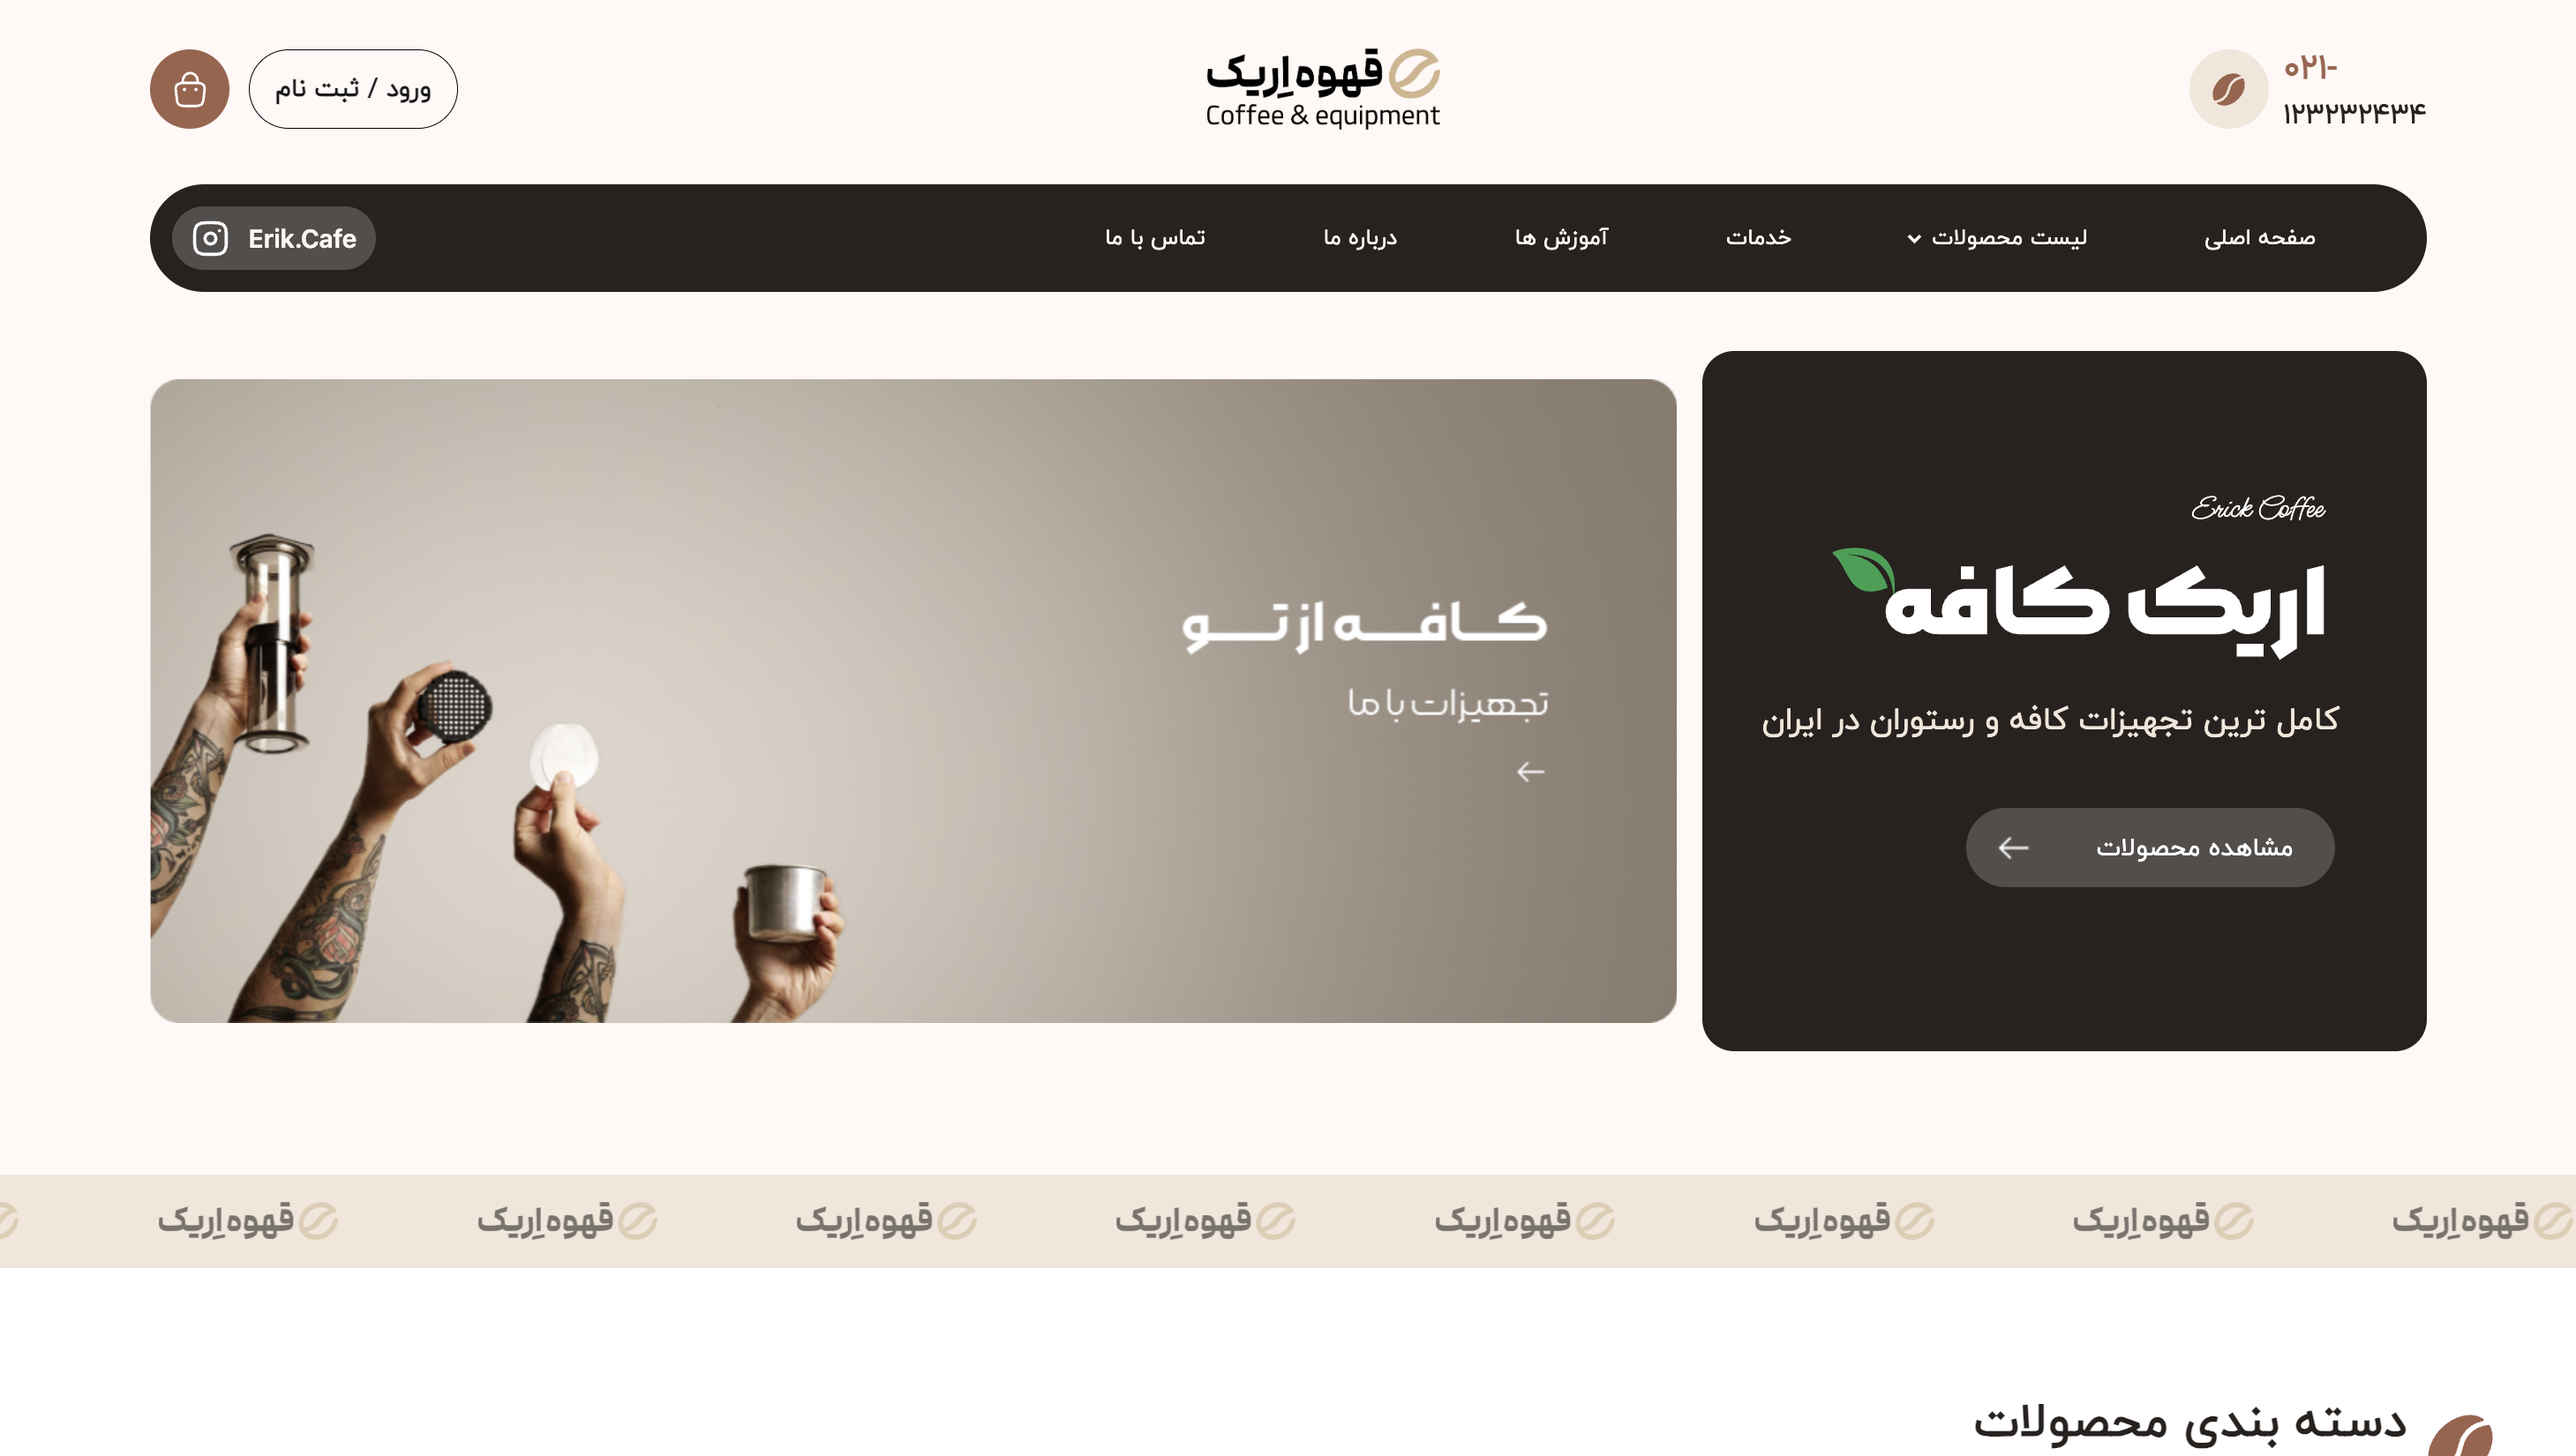
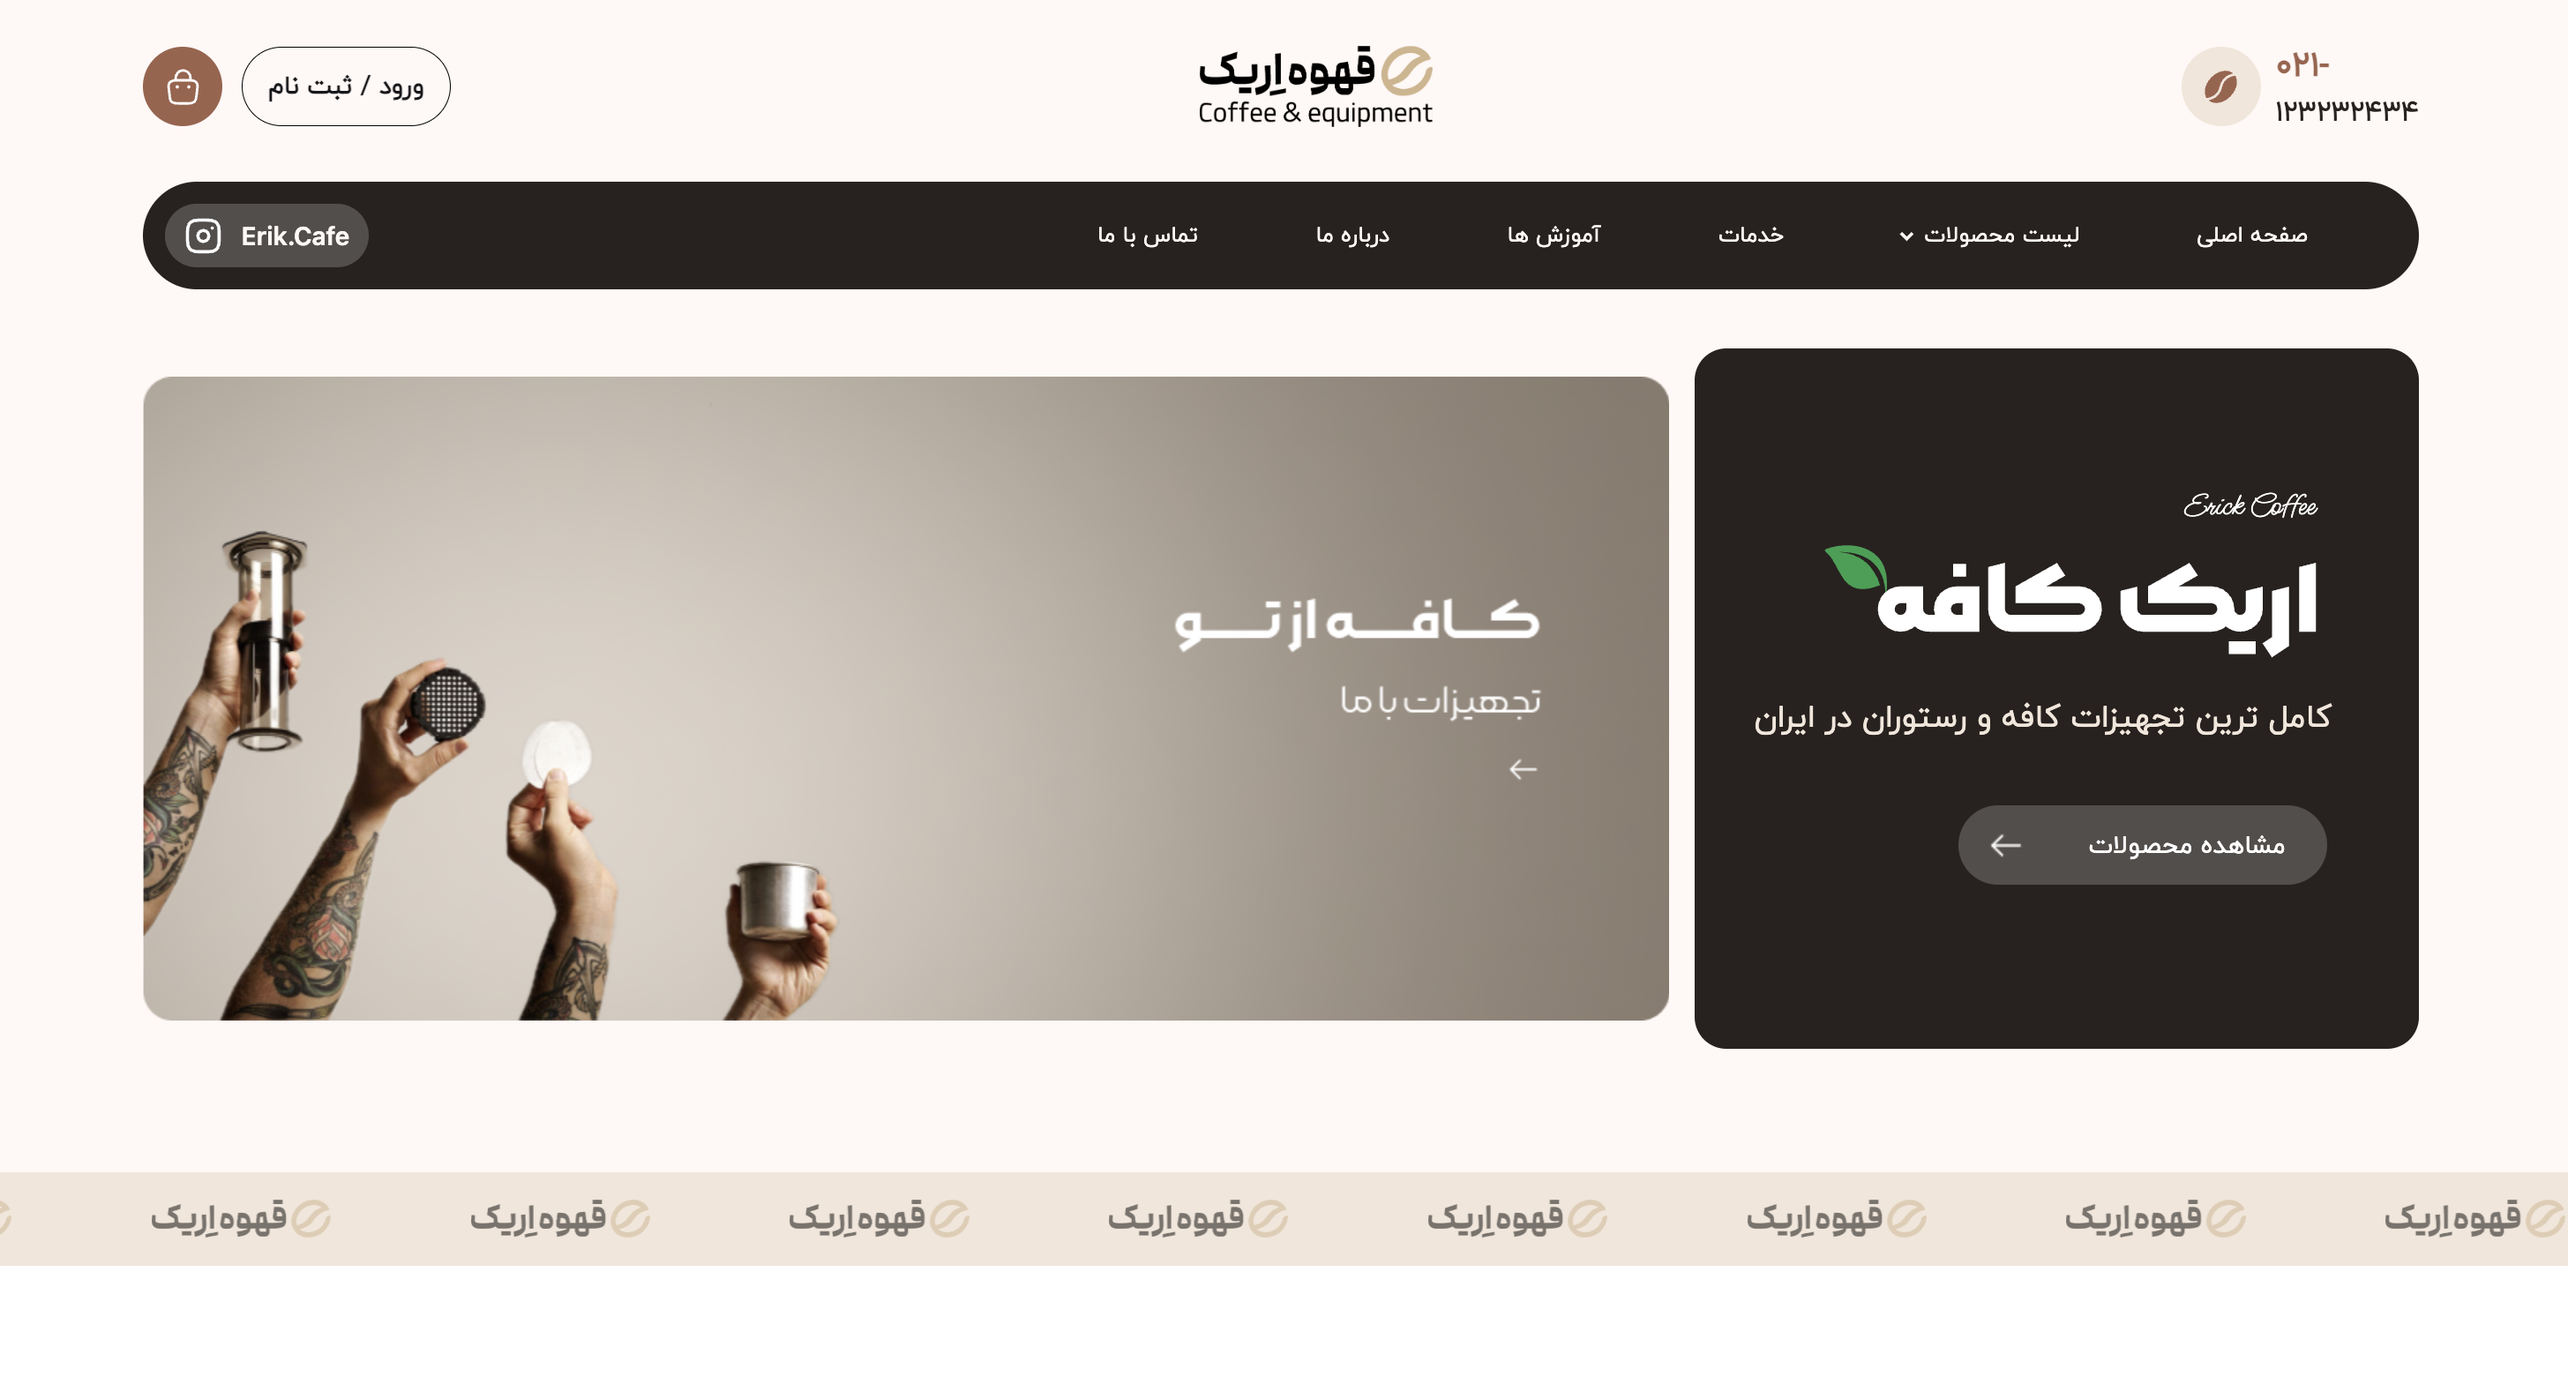
assests-completed

diff --git a/README.md b/README.md
@@ -14,7 +14,7 @@ This project focuses on translating a Figma design into a clean, modern, and res
 
 ## ✨ Features
 
-- Responsive design for desktop, tablet, and mobile devices
+- Responsive design for desktop and mobile devices
 - Modern UI based on Figma design
 - Interactive slider using Swiper.js
 - Hover effects and smooth interactions
